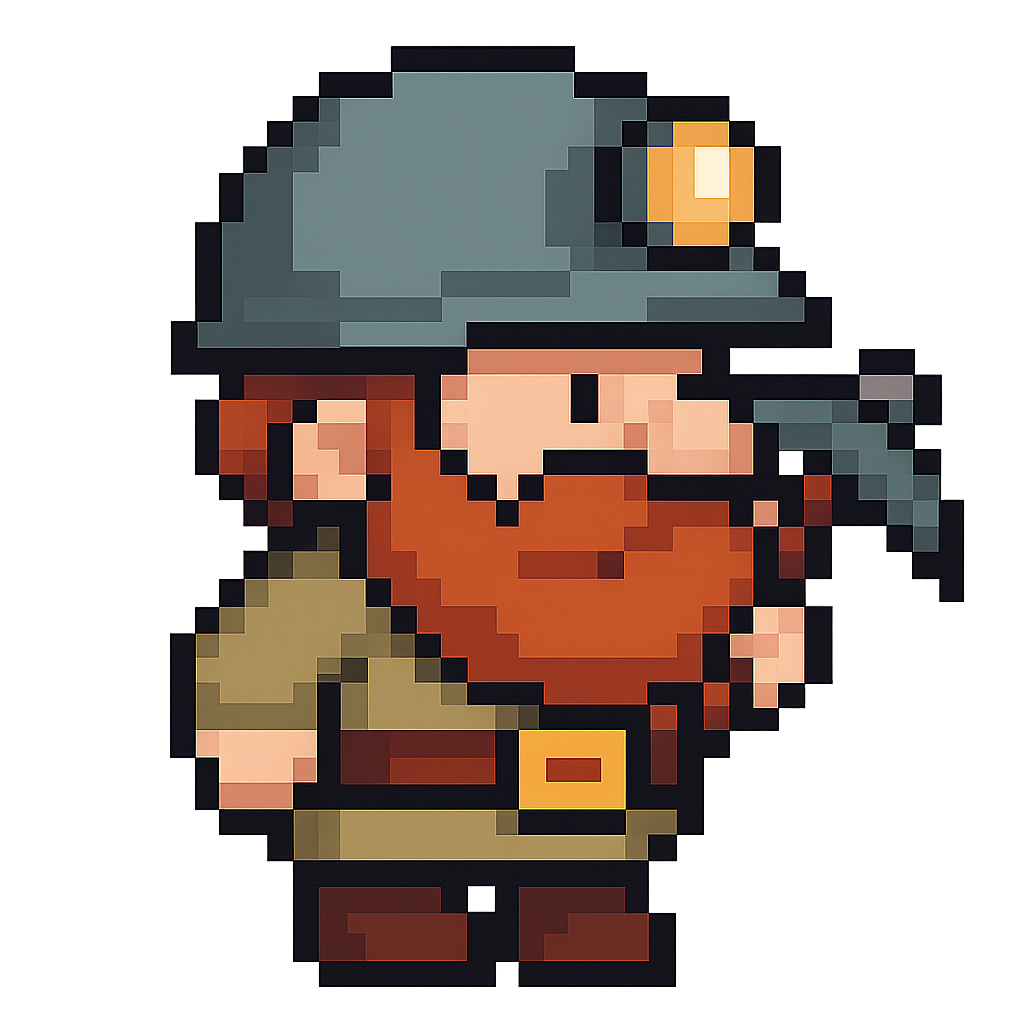
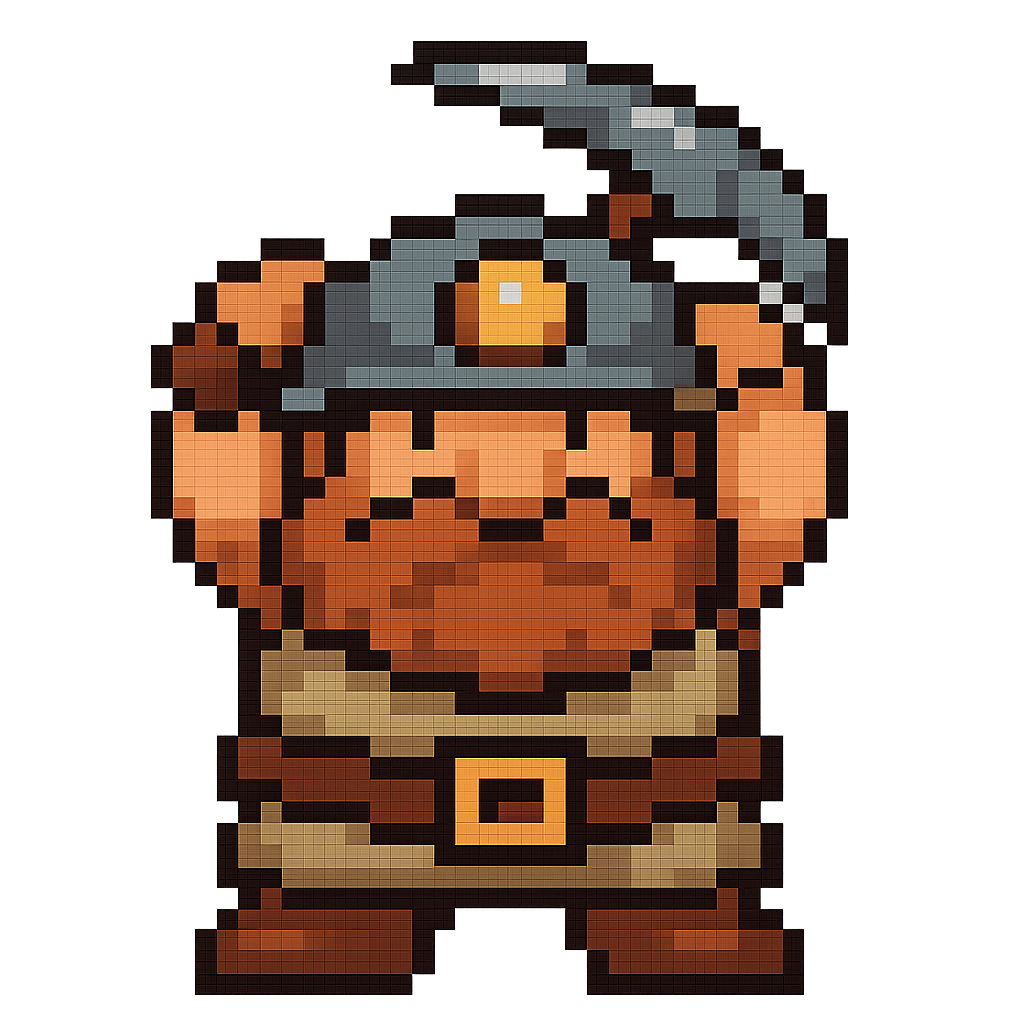
feat: switch from sprite sheet to individual frames for miner animation

diff --git a/components/gacha-game.tsx b/components/gacha-game.tsx
@@ -9,13 +9,11 @@ import { generateRows, type LottoRow } from "@/lib/lottery"
 type Phase = "idle" | "striking" | "results"
 type Frame = "idle" | "raise" | "strike"
 
-// All three poses live in one sprite sheet (3 equal columns) so the art
-// style, palette and proportions are physically identical across frames.
-// We swap frames by shifting the background position rather than the src.
-const FRAME_POS: Record<Frame, string> = {
-  idle: "0% 50%",
-  raise: "50% 50%",
-  strike: "100% 50%",
+// Each pose is its own image, swapped in sequence to play the mining motion.
+const FRAME_SRC: Record<Frame, string> = {
+  idle: "/dwarf-miner.png",
+  raise: "/dwarf-raise.png",
+  strike: "/dwarf-strike.png",
 }
 
 // Background ambient ore specks scattered on the cave walls.
@@ -153,20 +151,13 @@ export function GachaGame() {
             )}
 
             <span className={`block ${phase === "idle" ? "animate-breathe" : ""}`}>
-              <span
-                role="img"
-                aria-label="Pixel dwarf miner swinging a pickaxe"
-                className="pixelated block h-[150px] w-[128px] overflow-hidden drop-shadow-[0_6px_0_rgba(0,0,0,0.5)]"
-              >
-                <span
-                  className="pixelated block h-full w-full bg-no-repeat"
-                  style={{
-                    backgroundImage: "url(/dwarf-sheet.png)",
-                    backgroundSize: "330% 118%",
-                    backgroundPosition: FRAME_POS[frame],
-                  }}
-                />
-              </span>
+              <img
+                src={FRAME_SRC[frame] || "/placeholder.svg"}
+                alt="Pixel dwarf miner swinging a pickaxe"
+                width={150}
+                height={150}
+                className="pixelated h-[150px] w-[150px] object-contain object-bottom drop-shadow-[0_6px_0_rgba(0,0,0,0.5)]"
+              />
             </span>
           </button>
         </div>
